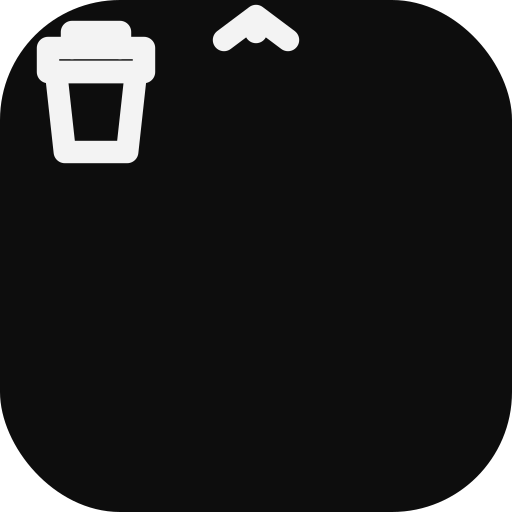
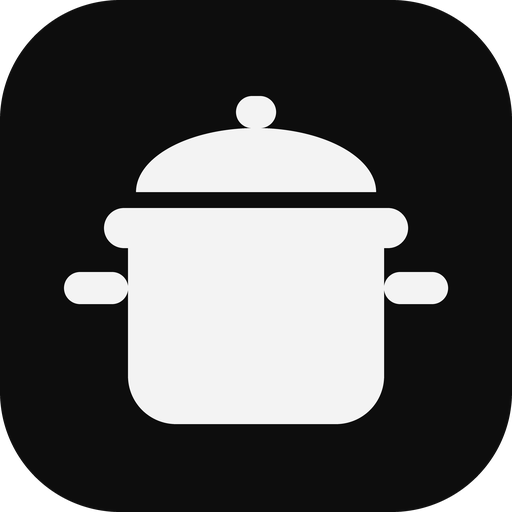
Update 140 files (1/7)

diff --git a/capacitor.config.ts b/capacitor.config.ts
@@ -10,6 +10,8 @@ const config: CapacitorConfig = {
     // Native Google account picker (no redirect, no browser). The idToken is handed to the Firebase JS SDK,
     // so the web layer and the native layer share one signed-in user.
     FirebaseAuthentication: { skipNativeAuth: true, providers: ['google.com'] },
+    // Finished-job notifications. The icon is android-res/drawable/ic_stat_pothub.xml (copied in by android:sync).
+    LocalNotifications: { smallIcon: 'ic_stat_pothub', iconColor: '#0d0d0d' },
   },
 };
 export default config;
